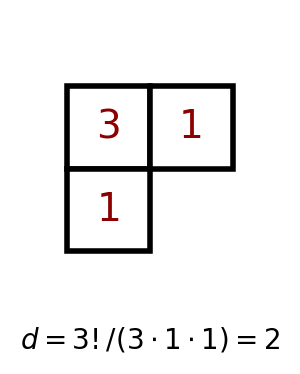
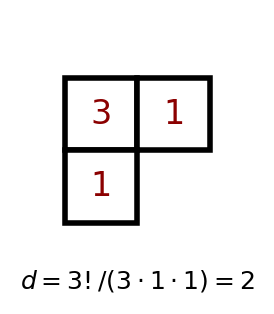
Reduce hook length diagram size further

diff --git a/utils/generate_young_diagrams.py b/utils/generate_young_diagrams.py
@@ -193,13 +193,13 @@ def young_diagram_2particle_comparison():
 
 
 def young_diagram_with_hook_lengths():
-    """Generate minimal hook length diagram - small with minimal whitespace."""
+    """Generate very small hook length diagram - minimal size."""
     setup_style()
     
-    # Small figure with minimal whitespace
-    fig = plt.figure(figsize=(2.2, 2.0))
-    # [left, bottom, width, height] - tight layout
-    ax = fig.add_axes([0.08, 0.28, 0.84, 0.62])
+    # Very small figure
+    fig = plt.figure(figsize=(1.8, 1.6))
+    # Tight layout - no margins
+    ax = fig.add_axes([0.02, 0.22, 0.96, 0.68])
     
     # Draw (2,1) diagram with hook length labels
     partition = [2, 1]
@@ -207,11 +207,11 @@ def young_diagram_with_hook_lengths():
     
     # Draw the diagram with smaller labels
     draw_young_diagram(ax, partition, labels=hook_lengths, title='',
-                       label_color='darkred', label_fontsize=14)
+                       label_color='darkred', label_fontsize=12)
     
-    # Caption below the diagram
-    fig.text(0.5, 0.08, r'$d = 3!/(3 \cdot 1 \cdot 1) = 2$',
-             ha='center', fontsize=10)
+    # Caption below
+    fig.text(0.5, 0.06, r'$d = 3!/(3 \cdot 1 \cdot 1) = 2$',
+             ha='center', fontsize=9)
     
     filepath = os.path.join(OUTPUT_DIR, 'young_21_hook_lengths.png')
     fig.savefig(filepath, dpi=200, facecolor='white', edgecolor='none')
